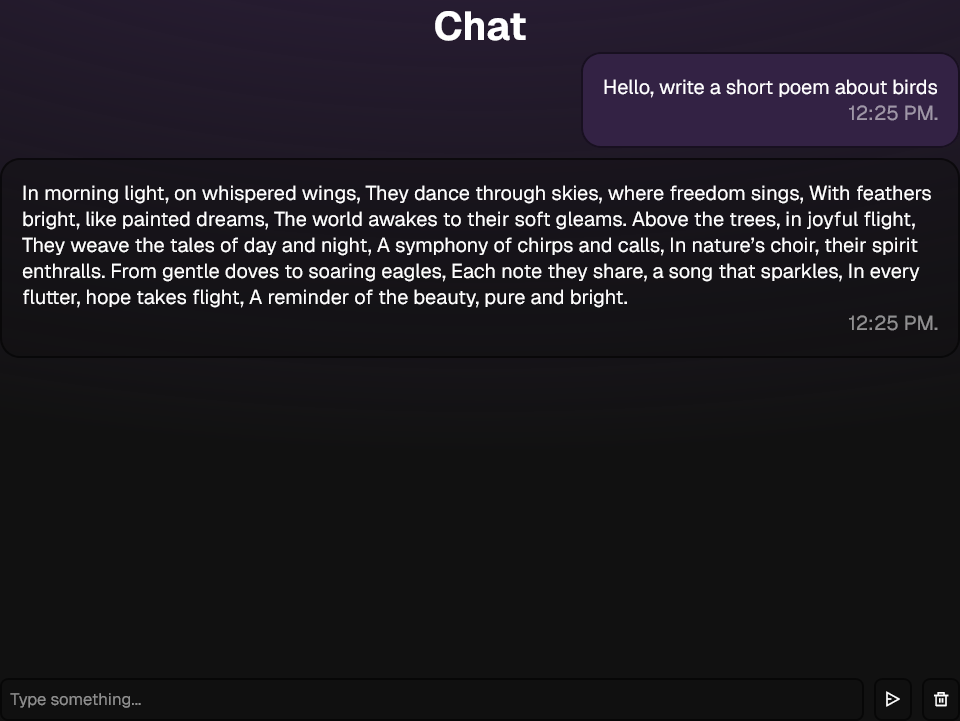
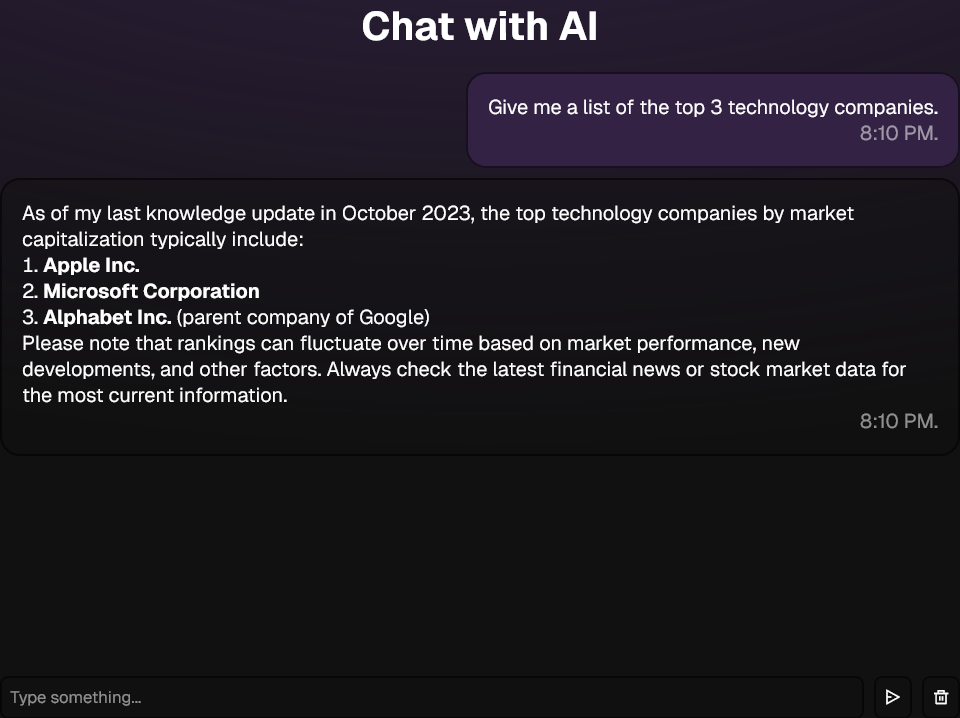
Chat update

diff --git a/src/pages/Chat/components/Wrapper.tsx b/src/pages/Chat/components/Wrapper.tsx
@@ -15,37 +15,39 @@ function Wrapper() {
     setContent(newContent);
   }
   return (
-    <div className="chat-wrapper">
-      <div className="top">
-        <h1>Chat</h1>
-        <section className="chat">
-          {messages.map((message) => (
-            <Message message={message} />
-          ))}
-          {thinking && (
-            <div className="message thinking">
-              <span>•</span>
-              <span>•</span>
-              <span>•</span>
-            </div>
-          )}
-        </section>
+    <>
+      <h1>Chat with AI</h1>
+      <div className="chat-wrapper">
+        <div className="top">
+          <section className="chat">
+            {messages.map((message) => (
+              <Message message={message} />
+            ))}
+            {thinking && (
+              <div className="message thinking">
+                <span>•</span>
+                <span>•</span>
+                <span>•</span>
+              </div>
+            )}
+          </section>
+        </div>
+        <form className="bottom" onSubmit={handleSubmit}>
+          <input
+            type="text"
+            placeholder="Type something..."
+            onChange={handleChange}
+            value={content}
+          />
+          <button type="submit">
+            <i className="ri-send-plane-2-line" />
+          </button>
+          <button type="button" onClick={clearChat}>
+            <i className="ri-delete-bin-line" />
+          </button>
+        </form>
       </div>
-      <form className="bottom" onSubmit={handleSubmit}>
-        <input
-          type="text"
-          placeholder="Type something..."
-          onChange={handleChange}
-          value={content}
-        />
-        <button type="submit">
-          <i className="ri-send-plane-2-line" />
-        </button>
-        <button type="button" onClick={clearChat}>
-          <i className="ri-delete-bin-line" />
-        </button>
-      </form>
-    </div>
+    </>
   );
 }
 

diff --git a/src/pages/Chat/index.css b/src/pages/Chat/index.css
@@ -9,21 +9,18 @@ ignore {
 
 .chat-wrapper {
   width: 100%;
-  height: calc(100dvh - 9.666rem);
-  display: flex;
-  flex-direction: column;
-  justify-content: space-between;
+  display: grid;
   row-gap: 0.5rem;
   overflow-y: scroll;
   scrollbar-width: none;
   & .top {
-    & h1 {
-      text-align: center;
-    }
     & .chat {
       display: flex;
       flex-direction: column;
       row-gap: 0.5rem;
+      height: calc(100dvh - 16rem);
+      overflow-y: scroll;
+      scrollbar-width: none;
       & .message {
         border: 2px solid var(--border-color);
         background-color: var(--tab-color);
@@ -77,12 +74,12 @@ ignore {
 
 @keyframes fade-in-out {
   0% {
-    opacity: 0.5;
+    opacity: 0.25;
   }
   50% {
     opacity: 1;
   }
   100% {
-    opacity: 0.5;
+    opacity: 0.25;
   }
 }

diff --git a/src/pages/Portfolio/components/Projects.tsx b/src/pages/Portfolio/components/Projects.tsx
@@ -33,7 +33,7 @@ const projects: ProjectType[] = [
   },
   {
     image: chat,
-    title: "Chat",
+    title: "Chat with AI",
     description:
       "Chat application made in React with TypeScript that uses the ChatGPT API to generate quality responses.",
     technologies: ["React", "TypeScript", "CSS"],

diff --git a/src/pages/Chat/index.tsx b/src/pages/Chat/index.tsx
@@ -5,7 +5,7 @@ import "./index.css";
 
 function Chat() {
   useEffect(() => {
-    document.title = "Axel Trejo - Chat";
+    document.title = "Axel Trejo - Chat with AI";
   }, []);
   return (
     <ChatProvider>
